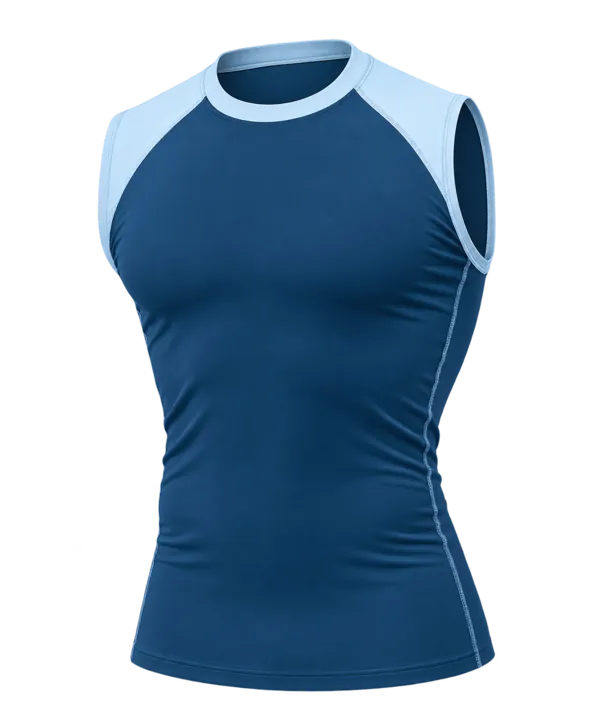
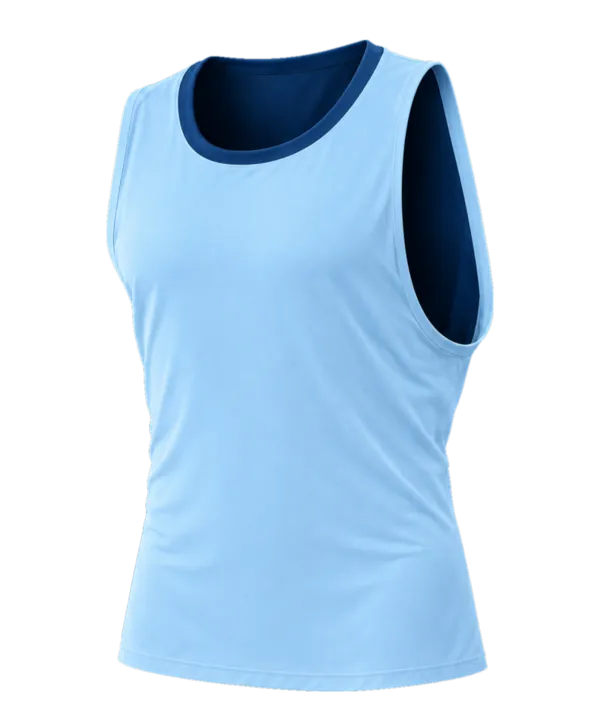
Ajoute le bloc réalisation

diff --git a/src/components/Realisations.tsx b/src/components/Realisations.tsx
@@ -1,0 +1,162 @@
+import { Eyebrow, H2, Section, Subtitle, contentWidth } from '@/components/ui'
+import { Contours } from '@/components/ui/Contours'
+import { HangTag } from '@/components/ui/HangTag'
+import { TextureBackdrop, contourSteps } from '@/components/ui/TextureBackdrop'
+import { cn } from '@/lib/cn'
+
+type Realisation = {
+  /** Short name, it has to fit on the hang tag. */
+  client: string
+  /** What we made for them, e.g. "Lycras moniteurs". Short too. */
+  product: string
+  /**
+   * Path without extension: `<photo>-600.webp` and `<photo>.webp` (1200px max)
+   * must exist. Without it the card renders a placeholder.
+   */
+  photo?: string
+  /** CSS object-position, to keep the subject in frame when the tile crops. */
+  objectPosition?: string
+  /** Put the hang tag at the top when the bottom of the photo has the subject. */
+  tagAtTop?: boolean
+}
+
+// TODO: replace with the real orders and photos. The first one gets the large
+// tile, so pick the strongest photo for it.
+const realisations: Realisation[] = [
+  {
+    client: 'Mimizan Surf Academy',
+    product: 'Lycras',
+    photo: '/images/realisations/lycra-mimizan-surf-academy',
+    tagAtTop: true,
+  },
+  {
+    client: 'Ligue de Surf Pays de la Loire',
+    product: 'Sweats',
+    photo: '/images/realisations/ligue-surf-pays-de-la-loire',
+    tagAtTop: true,
+  },
+  {
+    client: 'The Crew of Vieux Boucau',
+    product: 'Tee-shirt & Poncho',
+    photo: '/images/realisations/crew-vieux-boucau',
+    tagAtTop: true,
+  },
+  {
+    client: 'Surf Palace',
+    product: 'Accessoires',
+    photo: '/images/realisations/accessoires-surf-palace',
+    tagAtTop: true,
+  },
+  {
+    client: 'Boardingmania',
+    product: 'Lycras',
+    photo: '/images/realisations/boarding-mania',
+    tagAtTop: true,
+  },
+]
+
+/**
+ * Real photos of delivered orders, on a light-blue chart card like the hero.
+ * Bento grid: the first photo takes a 2×2 tile, the next four fill the
+ * remaining cells. Each photo has a stitched edge (like the hero's patch) and a
+ * hang tag naming the client, which sways on hover.
+ */
+export function Realisations() {
+  return (
+    <Section
+      variant="light"
+      className="relative overflow-hidden"
+    >
+      <TextureBackdrop />
+
+      <div className={cn(contentWidth, 'relative')}>
+        <div className="mx-auto max-w-2xl space-y-3 text-center">
+          <Eyebrow
+            icon="favorite"
+            className="mx-auto"
+          >
+            NOS RÉALISATIONS
+          </Eyebrow>
+          <H2 className="[&_em]:font-normal">
+            Nos textiles, sur le <em>terrain</em>
+          </H2>
+          <Subtitle>
+            Écoles de surf, clubs, fédérations et entreprises : un aperçu des
+            textiles que nous avons conçus et livrés.
+          </Subtitle>
+        </div>
+
+        <ul className="mt-12 grid gap-4 sm:grid-cols-2 lg:auto-rows-[260px] lg:grid-cols-4">
+          {realisations.map((realisation, index) => {
+            const featured = index === 0
+            return (
+              <li
+                key={`${realisation.client}-${realisation.product}`}
+                className={cn(
+                  'group relative aspect-[4/3] overflow-hidden rounded-[32px] bg-linear-to-t from-brand-light to-white shadow-[0_20px_40px_-28px_#0f3250] lg:aspect-auto',
+                  featured && 'sm:col-span-2 lg:row-span-2',
+                )}
+              >
+                {realisation.photo ? (
+                  // Plain <img>: with `images.unoptimized` (static export) next/image
+                  // emits no srcset, so the pre-resized WebP variants are listed by hand.
+                  // eslint-disable-next-line @next/next/no-img-element
+                  <img
+                    src={`${realisation.photo}.webp`}
+                    srcSet={`${realisation.photo}-600.webp 600w, ${realisation.photo}.webp 1200w`}
+                    sizes={
+                      featured
+                        ? '(min-width: 640px) 560px, 100vw'
+                        : '(min-width: 1024px) 400px, (min-width: 640px) 50vw, 100vw'
+                    }
+                    alt={`${realisation.product} pour ${realisation.client}`}
+                    width={1200}
+                    height={1200}
+                    loading="lazy"
+                    decoding="async"
+                    style={{ objectPosition: realisation.objectPosition }}
+                    className="absolute inset-0 size-full object-cover transition-transform duration-500 group-hover:scale-105"
+                  />
+                ) : (
+                  <Contours
+                    steps={contourSteps}
+                    className="absolute top-1/2 left-1/2 size-[420px] -translate-1/2 text-brand/15"
+                  />
+                )}
+
+                {/* Stitch line along the edge */}
+                <div
+                  className={cn(
+                    'pointer-events-none absolute inset-2.5 rounded-[24px] border-2 border-dashed',
+                    realisation.photo ? 'border-white/60' : 'border-brand/20',
+                  )}
+                  aria-hidden="true"
+                />
+
+                <HangTag
+                  kicker={realisation.product}
+                  label={realisation.client}
+                  wrap
+                  className={cn(
+                    featured
+                      ? 'left-9 max-w-[calc(100%-4.5rem)]'
+                      : 'left-7 max-w-[calc(100%-3.5rem)]',
+                    realisation.tagAtTop
+                      ? 'top-7'
+                      : featured
+                        ? 'bottom-8'
+                        : 'bottom-6',
+                  )}
+                  // Always applied but paused: hovering only resumes it, so the tag
+                  // never jumps to the first keyframe on enter or back on leave. `!` because
+                  // the `animate-*` shorthand would reset the play state to running.
+                  swayClassName="motion-safe:animate-tag-sway [animation-play-state:paused]! group-hover:[animation-play-state:running]!"
+                />
+              </li>
+            )
+          })}
+        </ul>
+      </div>
+    </Section>
+  )
+}

diff --git a/src/components/HeroLycra.tsx b/src/components/HeroLycra.tsx
@@ -1,4 +1,5 @@
 import { Contours, islandPath } from '@/components/ui/Contours'
+import { HangTag } from '@/components/ui/HangTag'
 import { cn } from '@/lib/cn'
 
 /**
@@ -75,8 +76,8 @@ export function HeroLycra() {
       <HangTag
         kicker="Sur mesure"
         label="Coupes & formes"
-        className="top-[18%] left-0 motion-safe:[animation-delay:1.1s]"
-        swayClassName="motion-safe:[animation-delay:-1s]"
+        className="top-[18%] left-0 motion-safe:animate-hero-pop motion-safe:[animation-delay:1.1s]"
+        swayClassName="motion-safe:animate-tag-sway motion-safe:[animation-delay:-1s]"
       />
       <Patch
         label="Votre logo, vos couleurs"
@@ -85,63 +86,9 @@ export function HeroLycra() {
       <HangTag
         kicker="Toute la gamme"
         label="Lycras, sweats, polos…"
-        className="bottom-[18%] left-[2%] motion-safe:[animation-delay:1.4s]"
-        swayClassName="motion-safe:[animation-delay:-3s]"
+        className="bottom-[18%] left-[2%] motion-safe:animate-hero-pop motion-safe:[animation-delay:1.4s]"
+        swayClassName="motion-safe:animate-tag-sway motion-safe:[animation-delay:-3s]"
       />
-    </div>
-  )
-}
-
-/**
- * Clothing hang tag: notched card with an eyelet and a loose string, swaying
- * gently from the eyelet. Pop-in runs on the outer element and the sway on the
- * inner one, so the two `scale`/`rotate` animations don't override each other.
- */
-function HangTag({
-  kicker,
-  label,
-  className,
-  swayClassName,
-}: {
-  kicker: string
-  label: string
-  className: string
-  swayClassName: string
-}) {
-  return (
-    <div className={cn('absolute motion-safe:animate-hero-pop', className)}>
-      <div
-        className={cn(
-          'relative origin-[12px_50%] -rotate-3 drop-shadow-[0_8px_12px_rgba(15,50,80,0.25)] motion-safe:animate-tag-sway',
-          swayClassName
-        )}
-      >
-        <svg
-          viewBox="0 0 40 48"
-          className="absolute bottom-1/2 left-[12px] h-12 w-10 overflow-visible text-brand-dark/60"
-          aria-hidden="true"
-        >
-          <path
-            d="M0 48 C -6 34 -18 24 -12 12 C -8 4 2 2 6 -4"
-            fill="none"
-            stroke="currentColor"
-            strokeWidth="1.25"
-            strokeLinecap="round"
-          />
-        </svg>
-        <p className="bg-white py-1.5 pr-4 pl-8 whitespace-nowrap text-brand [clip-path:polygon(18px_0,100%_0,100%_100%,18px_100%,0_50%)] sm:py-2">
-          <span className="block text-[10px] font-semibold tracking-[0.2em] text-brand/60 uppercase">
-            {kicker}
-          </span>
-          <span className="block font-heading text-base italic sm:text-lg">
-            {label}
-          </span>
-        </p>
-        <span
-          className="absolute top-1/2 left-[8px] size-2.5 -translate-y-1/2 rounded-full bg-brand-light ring-2 ring-brand/30"
-          aria-hidden="true"
-        />
-      </div>
     </div>
   )
 }

diff --git a/src/components/ui/HangTag.tsx b/src/components/ui/HangTag.tsx
@@ -1,0 +1,63 @@
+import { cn } from '@/lib/cn'
+
+/**
+ * Clothing hang tag: notched card with an eyelet and a loose string. Pop-in
+ * animations go on `className` (outer element) and sway on `swayClassName`
+ * (inner one), so the two `scale`/`rotate` animations don't override each other.
+ */
+export function HangTag({
+  kicker,
+  label,
+  className,
+  swayClassName,
+  wrap = false,
+}: {
+  kicker: string
+  label: string
+  className?: string
+  swayClassName?: string
+  /** Let the label wrap; the outer element then needs a max width. */
+  wrap?: boolean
+}) {
+  return (
+    <div className={cn('absolute', className)}>
+      <div
+        className={cn(
+          'relative origin-[12px_50%] -rotate-3 drop-shadow-[0_8px_12px_rgba(15,50,80,0.25)]',
+          swayClassName
+        )}
+      >
+        <svg
+          viewBox="0 0 40 48"
+          className="absolute bottom-1/2 left-[12px] h-12 w-10 overflow-visible text-brand-dark/60"
+          aria-hidden="true"
+        >
+          <path
+            d="M0 48 C -6 34 -18 24 -12 12 C -8 4 2 2 6 -4"
+            fill="none"
+            stroke="currentColor"
+            strokeWidth="1.25"
+            strokeLinecap="round"
+          />
+        </svg>
+        <p
+          className={cn(
+            'bg-white py-1.5 pr-4 pl-8 text-brand [clip-path:polygon(18px_0,100%_0,100%_100%,18px_100%,0_50%)] sm:py-2',
+            wrap ? 'text-balance' : 'whitespace-nowrap'
+          )}
+        >
+          <span className="block text-[10px] font-semibold tracking-[0.2em] text-brand/60 uppercase">
+            {kicker}
+          </span>
+          <span className="block font-heading text-base leading-tight italic sm:text-lg">
+            {label}
+          </span>
+        </p>
+        <span
+          className="absolute top-1/2 left-[8px] size-2.5 -translate-y-1/2 rounded-full bg-brand-light ring-2 ring-brand/30"
+          aria-hidden="true"
+        />
+      </div>
+    </div>
+  )
+}

diff --git a/src/app/page.tsx b/src/app/page.tsx
@@ -3,6 +3,7 @@ import { Container, Button, Icon, Hero } from '@/components/ui'
 import { HeroLycra } from '@/components/HeroLycra'
 import { ClientLogos } from '@/components/ClientLogos'
 import { LycraRange } from '@/components/LycraRange'
+import { Realisations } from '@/components/Realisations'
 import { siteConfig } from '@/lib/site'
 
 export const metadata: Metadata = {
@@ -60,6 +61,8 @@ export default function HomePage() {
       <ClientLogos />
 
       <LycraRange />
+
+      <Realisations />
     </Container>
   )
 }
